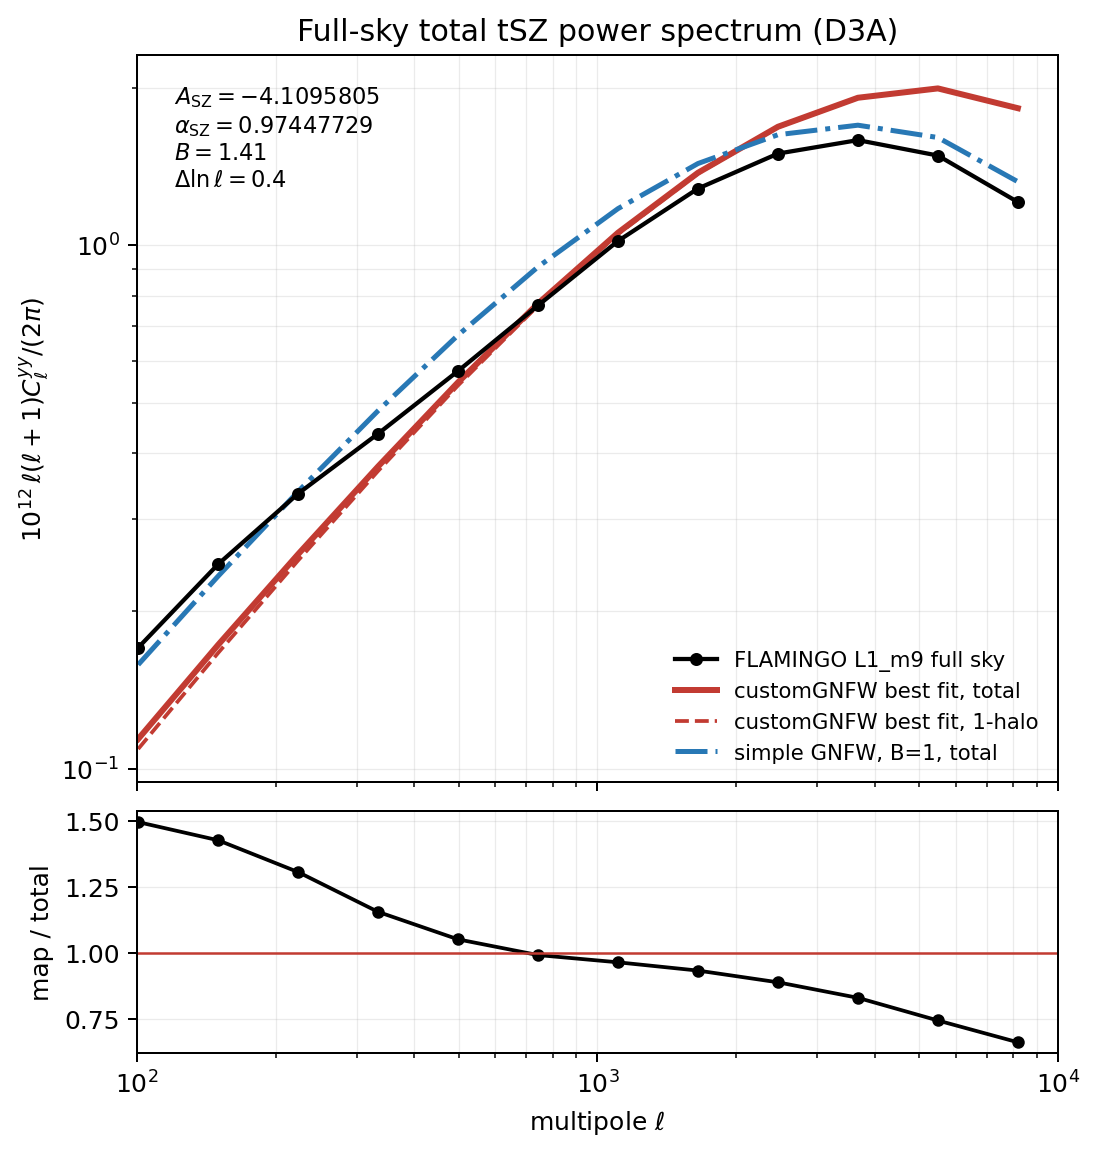
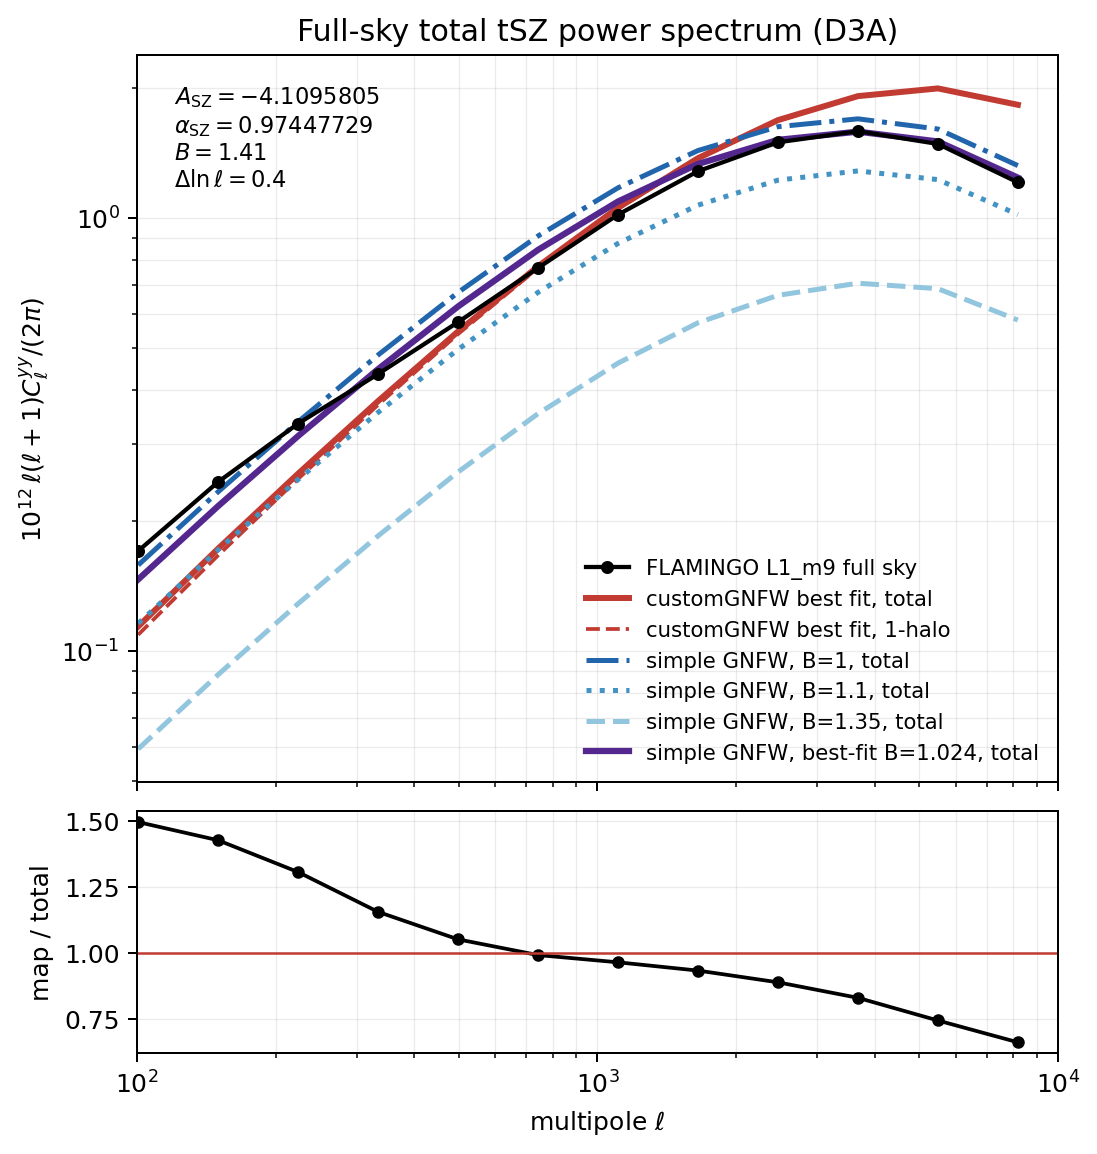
feat: compare simple GNFW mass biases

diff --git a/scripts/plot_l1_m9_bestfit_customgnfw_highell.py b/scripts/plot_l1_m9_bestfit_customgnfw_highell.py
@@ -10,6 +10,7 @@ import matplotlib
 matplotlib.use("Agg")
 import matplotlib.pyplot as plt
 import numpy as np
+from scipy.optimize import minimize_scalar
 
 from flamingo.inference.l1_m9 import L1M9CustomGNFWTheory
 from flamingo.theory.clyy import cl_yy
@@ -108,9 +109,10 @@ def compute_theory_bandpowers(
 def compute_simple_gnfw_bandpowers(
     edges: np.ndarray,
     *,
+    B: float,
     n_per_bin: int = 12,
 ) -> dict[str, np.ndarray]:
-    """Evaluate and log-bin the D3A A10 GNFW total spectrum with B=1."""
+    """Evaluate and log-bin a D3A A10 GNFW total spectrum."""
     chunks = []
     for index, (lower, upper) in enumerate(zip(edges[:-1], edges[1:])):
         if index == len(edges) - 2:
@@ -120,10 +122,42 @@ def compute_simple_gnfw_bandpowers(
         chunks.append(ell_bin)
     ell = np.concatenate(chunks)
 
-    spectrum = cl_yy(ell, B=1.0)
+    spectrum = cl_yy(ell, B=B)
     centres, cl_binned = bin_cl_log(ell, spectrum["cl"], edges)
     centre_prefactor = centres * (centres + 1.0) / (2.0 * np.pi)
     return {"ell": centres, "total": centre_prefactor * cl_binned}
+
+
+def fit_simple_gnfw_mass_bias(
+    edges: np.ndarray,
+    measured_dl: np.ndarray,
+    *,
+    n_per_bin: int = 12,
+    bounds: tuple[float, float] = (0.5, 2.0),
+) -> tuple[float, dict[str, np.ndarray]]:
+    """Fit B using equal-weight residuals in log D_ell."""
+
+    def objective(mass_bias: float) -> float:
+        model = compute_simple_gnfw_bandpowers(
+            edges,
+            B=mass_bias,
+            n_per_bin=n_per_bin,
+        )
+        residual = np.log(measured_dl) - np.log(model["total"])
+        return float(np.sum(residual**2))
+
+    result = minimize_scalar(
+        objective,
+        bounds=bounds,
+        method="bounded",
+        options={"xatol": 1e-6},
+    )
+    best_B = float(result.x)
+    return best_B, compute_simple_gnfw_bandpowers(
+        edges,
+        B=best_B,
+        n_per_bin=n_per_bin,
+    )
 
 
 def compute_map_bandpowers(
@@ -168,7 +202,9 @@ def make_high_ell_figure(
     map_dl: np.ndarray,
     total_dl: np.ndarray,
     one_halo_dl: np.ndarray,
-    simple_gnfw_dl: np.ndarray,
+    simple_gnfw_curves: dict[float, np.ndarray],
+    best_simple_gnfw_B: float,
+    best_simple_gnfw_dl: np.ndarray,
 ) -> plt.Figure:
     """Draw the high-ell map/model comparison and full-range ratio."""
     figure, (upper, ratio) = plt.subplots(
@@ -204,13 +240,27 @@ def make_high_ell_figure(
         linestyle="--",
         label="customGNFW best fit, 1-halo",
     )
+    simple_styles = {
+        1.0: ("#2166ac", "-."),
+        1.1: ("#4393c3", ":"),
+        1.35: ("#92c5de", "--"),
+    }
+    for mass_bias, simple_gnfw_dl in simple_gnfw_curves.items():
+        color, linestyle = simple_styles[mass_bias]
+        upper.loglog(
+            ell,
+            simple_gnfw_dl,
+            color=color,
+            linewidth=2.0,
+            linestyle=linestyle,
+            label=rf"simple GNFW, B={mass_bias:g}, total",
+        )
     upper.loglog(
         ell,
-        simple_gnfw_dl,
-        color="#2878b5",
-        linewidth=2.0,
-        linestyle="-.",
-        label="simple GNFW, B=1, total",
+        best_simple_gnfw_dl,
+        color="#54278f",
+        linewidth=2.5,
+        label=rf"simple GNFW, best-fit B={best_simple_gnfw_B:.3f}, total",
     )
     ratio.semilogx(ell, map_dl / total_dl, color="black", marker="o", markersize=4.0)
     ratio.axhline(1.0, color="#c23b32", linewidth=1.0)
@@ -252,9 +302,17 @@ if __name__ == "__main__":
         deconvolve_pixwin=True,
     )
     model = compute_theory_bandpowers(log_edges)
-    simple_gnfw = compute_simple_gnfw_bandpowers(log_edges)
+    simple_gnfw = {
+        mass_bias: compute_simple_gnfw_bandpowers(log_edges, B=mass_bias)
+        for mass_bias in (1.0, 1.1, 1.35)
+    }
+    best_simple_gnfw_B, best_simple_gnfw = fit_simple_gnfw_mass_bias(
+        log_edges,
+        measured_dl,
+    )
     np.testing.assert_allclose(map_ell, model["ell"], rtol=0.0, atol=0.0)
-    np.testing.assert_allclose(map_ell, simple_gnfw["ell"], rtol=0.0, atol=0.0)
+    for spectrum in simple_gnfw.values():
+        np.testing.assert_allclose(map_ell, spectrum["ell"], rtol=0.0, atol=0.0)
     displayed_map_dl = measured_dl * DISPLAY_SCALE
     write_empirical_bandpowers(BANDPOWER_FILE, map_ell, displayed_map_dl)
     figure = make_high_ell_figure(
@@ -262,8 +320,14 @@ if __name__ == "__main__":
         displayed_map_dl,
         model["total"] * DISPLAY_SCALE,
         model["1h"] * DISPLAY_SCALE,
-        simple_gnfw["total"] * DISPLAY_SCALE,
+        {
+            mass_bias: spectrum["total"] * DISPLAY_SCALE
+            for mass_bias, spectrum in simple_gnfw.items()
+        },
+        best_simple_gnfw_B,
+        best_simple_gnfw["total"] * DISPLAY_SCALE,
     )
+    print(f"best-fit simple-GNFW B = {best_simple_gnfw_B:.8f}", flush=True)
     print(f"wrote {BANDPOWER_FILE.relative_to(REPO)}", flush=True)
     for output_path in save_figure(figure, OUTPUT_STEM):
         print(f"wrote {output_path.relative_to(REPO)}", flush=True)

diff --git a/tests/test_l1_m9_bestfit_highell_plot.py b/tests/test_l1_m9_bestfit_highell_plot.py
@@ -54,7 +54,7 @@ def test_compute_theory_bandpowers_returns_positive_total_equal_to_sum():
     np.testing.assert_allclose(theory["total"], theory["1h"] + theory["2h"])
 
 
-def test_compute_simple_gnfw_bandpowers_returns_positive_total():
+def test_compute_simple_gnfw_bandpowers_uses_requested_mass_bias():
     try:
         from scripts.plot_l1_m9_bestfit_customgnfw_highell import (
             compute_simple_gnfw_bandpowers,
@@ -63,12 +63,38 @@ def test_compute_simple_gnfw_bandpowers_returns_positive_total():
         pytest.fail("compute_simple_gnfw_bandpowers is missing")
 
     edges = 100.0 * np.exp(0.4 * np.arange(3))
-    theory = compute_simple_gnfw_bandpowers(edges, n_per_bin=4)
+    theory_b1 = compute_simple_gnfw_bandpowers(edges, B=1.0, n_per_bin=4)
+    theory_b135 = compute_simple_gnfw_bandpowers(edges, B=1.35, n_per_bin=4)
 
-    assert set(theory) == {"ell", "total"}
-    assert theory["total"].shape == (2,)
-    assert np.all(np.isfinite(theory["total"]))
-    assert np.all(theory["total"] > 0.0)
+    for theory in (theory_b1, theory_b135):
+        assert set(theory) == {"ell", "total"}
+        assert theory["total"].shape == (2,)
+        assert np.all(np.isfinite(theory["total"]))
+        assert np.all(theory["total"] > 0.0)
+    fractional_change = np.abs(theory_b135["total"] / theory_b1["total"] - 1.0)
+    assert np.max(fractional_change) > 0.01
+
+
+def test_fit_simple_gnfw_mass_bias_recovers_log_space_minimum(monkeypatch):
+    import scripts.plot_l1_m9_bestfit_customgnfw_highell as module
+
+    edges = np.array([100.0, 200.0, 400.0])
+
+    def synthetic_bandpowers(edges, *, B, n_per_bin):
+        return {
+            "ell": np.sqrt(edges[:-1] * edges[1:]),
+            "total": B * np.array([1.0, 2.0]),
+        }
+
+    monkeypatch.setattr(module, "compute_simple_gnfw_bandpowers", synthetic_bandpowers)
+    best_B, best_model = module.fit_simple_gnfw_mass_bias(
+        edges,
+        measured_dl=np.array([1.25, 2.5]),
+        n_per_bin=4,
+    )
+
+    assert best_B == pytest.approx(1.25, abs=1e-5)
+    np.testing.assert_allclose(best_model["total"], [1.25, 2.5], atol=1e-5)
 
 
 def test_compute_map_bandpowers_applies_pixel_window_deconvolution(tmp_path):
@@ -136,7 +162,13 @@ def test_make_high_ell_figure_has_full_range_ratio_and_no_2h_line():
         map_dl=np.array([0.1, 0.2, 0.4, 0.8]),
         total_dl=np.array([0.08, 0.18, 0.38, 0.78]),
         one_halo_dl=np.array([0.07, 0.17, 0.37, 0.77]),
-        simple_gnfw_dl=np.array([0.12, 0.24, 0.48, 0.96]),
+        simple_gnfw_curves={
+            1.0: np.array([0.12, 0.24, 0.48, 0.96]),
+            1.1: np.array([0.11, 0.22, 0.44, 0.88]),
+            1.35: np.array([0.09, 0.18, 0.36, 0.72]),
+        },
+        best_simple_gnfw_B=1.23,
+        best_simple_gnfw_dl=np.array([0.1, 0.2, 0.4, 0.8]),
     )
 
     upper, ratio = figure.axes
@@ -145,6 +177,9 @@ def test_make_high_ell_figure_has_full_range_ratio_and_no_2h_line():
         "customGNFW best fit, total",
         "customGNFW best fit, 1-halo",
         "simple GNFW, B=1, total",
+        "simple GNFW, B=1.1, total",
+        "simple GNFW, B=1.35, total",
+        "simple GNFW, best-fit B=1.230, total",
     ]
     np.testing.assert_allclose(upper.get_xlim(), [100.0, 10000.0])
     np.testing.assert_allclose(ratio.get_xlim(), [100.0, 10000.0])
